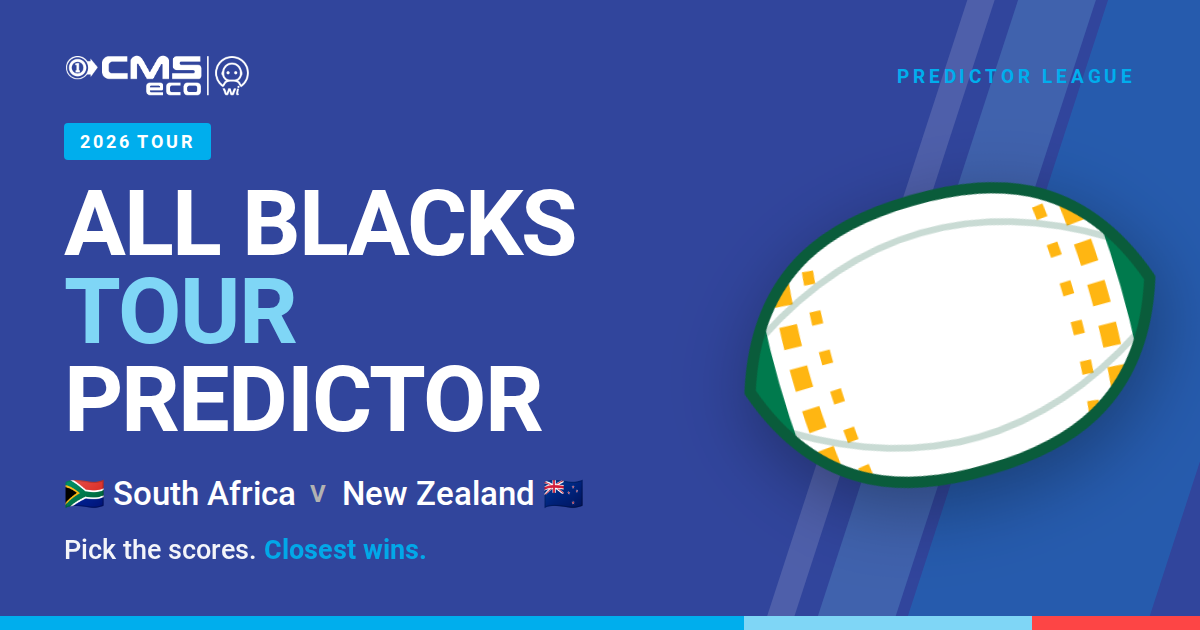
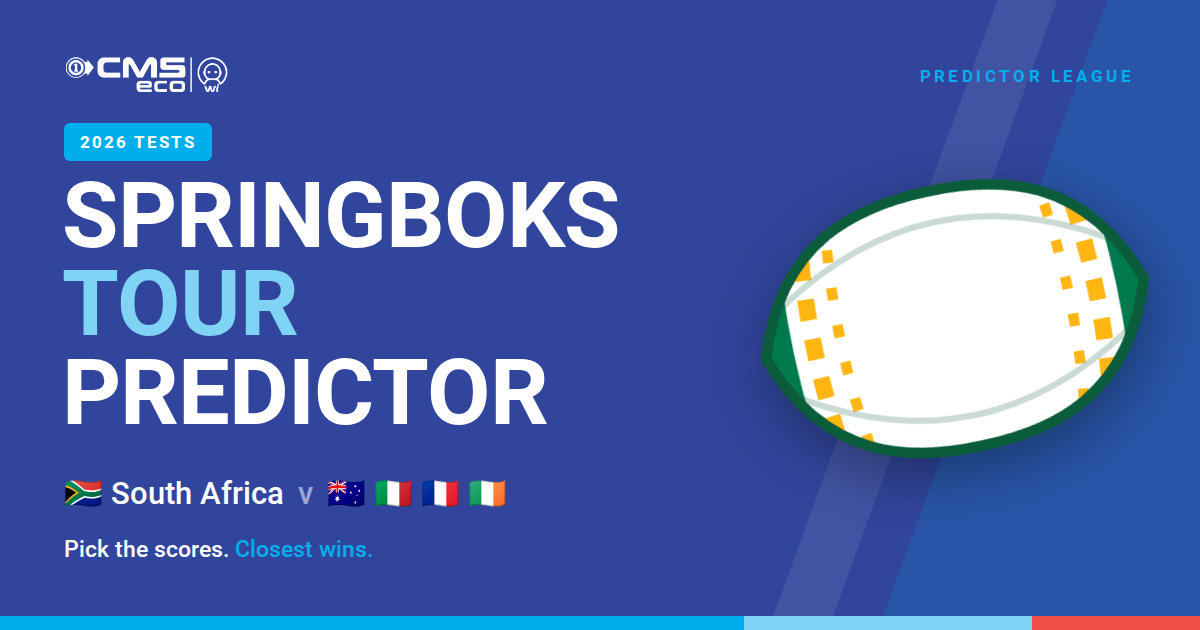
Tour app: rename to Springboks Tour Predictor
The All Blacks tour is finished and the app now carries the Springboks'
remaining Tests (Australia, Italy, France, Ireland), so the title, page
header, home-screen name, WhatsApp share message and link-preview card all
say Springboks Tour Predictor. The preview image is redrawn in the same
layout with South Africa against the four remaining opponents, and its URL
gains a version so chat apps fetch the new card instead of a cached one.

Claude-Session: https://claude.ai/code/session_01Mehoc2sbgLUscxa4PNrFcP

diff --git a/tour/index.html b/tour/index.html
@@ -4,19 +4,19 @@
 <meta charset="utf-8">
 <meta name="viewport" content="width=device-width, initial-scale=1, viewport-fit=cover">
 <meta name="theme-color" content="#31459C">
-<title>All Blacks Tour Predictor</title>
-<meta name="description" content="Pick the scores for every game of the All Blacks tour of South Africa. Closest wins. 30 seconds, no sign-up.">
+<title>Springboks Tour Predictor</title>
+<meta name="description" content="Pick the scores for every Springbok Test. Closest wins. 30 seconds, no sign-up.">
 <!-- Link preview card — WhatsApp, Teams and Slack all scrape these, and they
      need absolute URLs, so the live Pages address is spelled out in full. -->
 <meta property="og:type" content="website">
 <meta property="og:site_name" content="CMS Systems">
-<meta property="og:title" content="All Blacks Tour Predictor">
-<meta property="og:description" content="🇿🇦 v 🇳🇿 — pick the scores for every game of the tour. Closest wins. 30 seconds, no sign-up.">
+<meta property="og:title" content="Springboks Tour Predictor">
+<meta property="og:description" content="🇿🇦 Pick the scores for every Springbok Test. Closest wins. 30 seconds, no sign-up.">
 <meta property="og:url" content="https://elchoerob-stack.github.io/charne/tour/">
-<meta property="og:image" content="https://elchoerob-stack.github.io/charne/tour/assets/share-card.png">
+<meta property="og:image" content="https://elchoerob-stack.github.io/charne/tour/assets/share-card.png?v=2">
 <meta property="og:image:width" content="1200">
 <meta property="og:image:height" content="630">
-<meta property="og:image:alt" content="All Blacks Tour Predictor — South Africa v New Zealand">
+<meta property="og:image:alt" content="Springboks Tour Predictor">
 <meta name="twitter:card" content="summary_large_image">
 <link rel="manifest" href="manifest.webmanifest">
 <link rel="icon" href="assets/ball-icon-192.png">
@@ -210,7 +210,7 @@
 <header>
   <div class="wrap">
     <div class="brand"><img src="assets/cms-eco-logo-full-colour.png" alt="CMS eco"></div>
-    <h1>All Blacks Tour <span class="kick">Predictor</span></h1>
+    <h1>Springboks Tour <span class="kick">Predictor</span></h1>
     <p class="sub" id="sub">Pick the scores. Closest wins. Everyone’s picks appear once you’ve made yours.</p>
   </div>
 </header>
@@ -837,8 +837,8 @@ function shareMessage(){
   var t = table();
   var scored = t.filter(function(x){ return x.pts > 0; });
   var L = [];
-  L.push("*ALL BLACKS TOUR PREDICTOR*");
-  L.push("🇿🇦 South Africa  v  New Zealand 🇳🇿");
+  L.push("*SPRINGBOKS TOUR PREDICTOR*");
+  L.push("🇿🇦 Every Springbok Test, one log");
   L.push("━━━━━━━━━━━━━━━");
   if (scored.length) {
     L.push("🏆 *THE LOG*");
